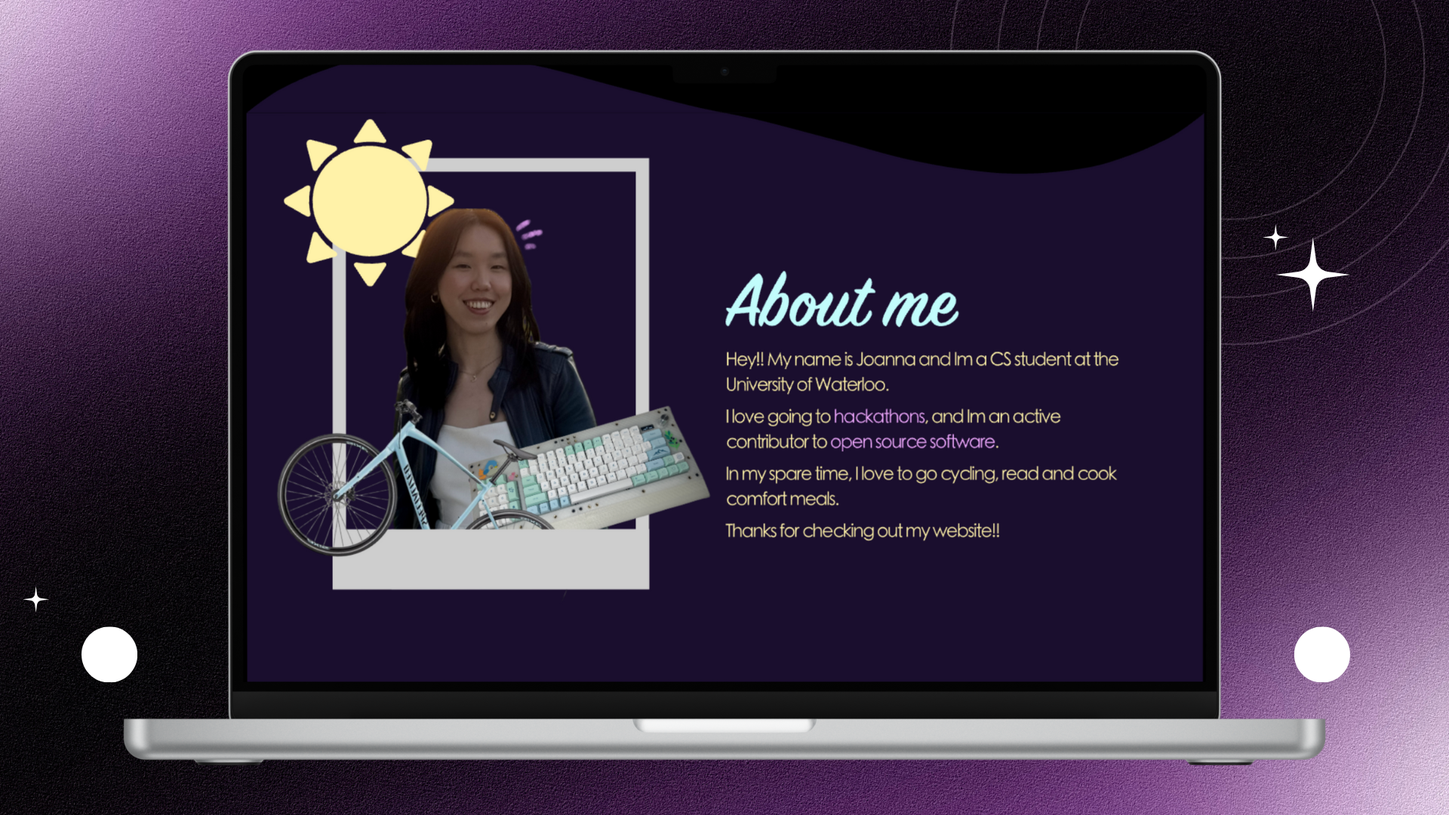
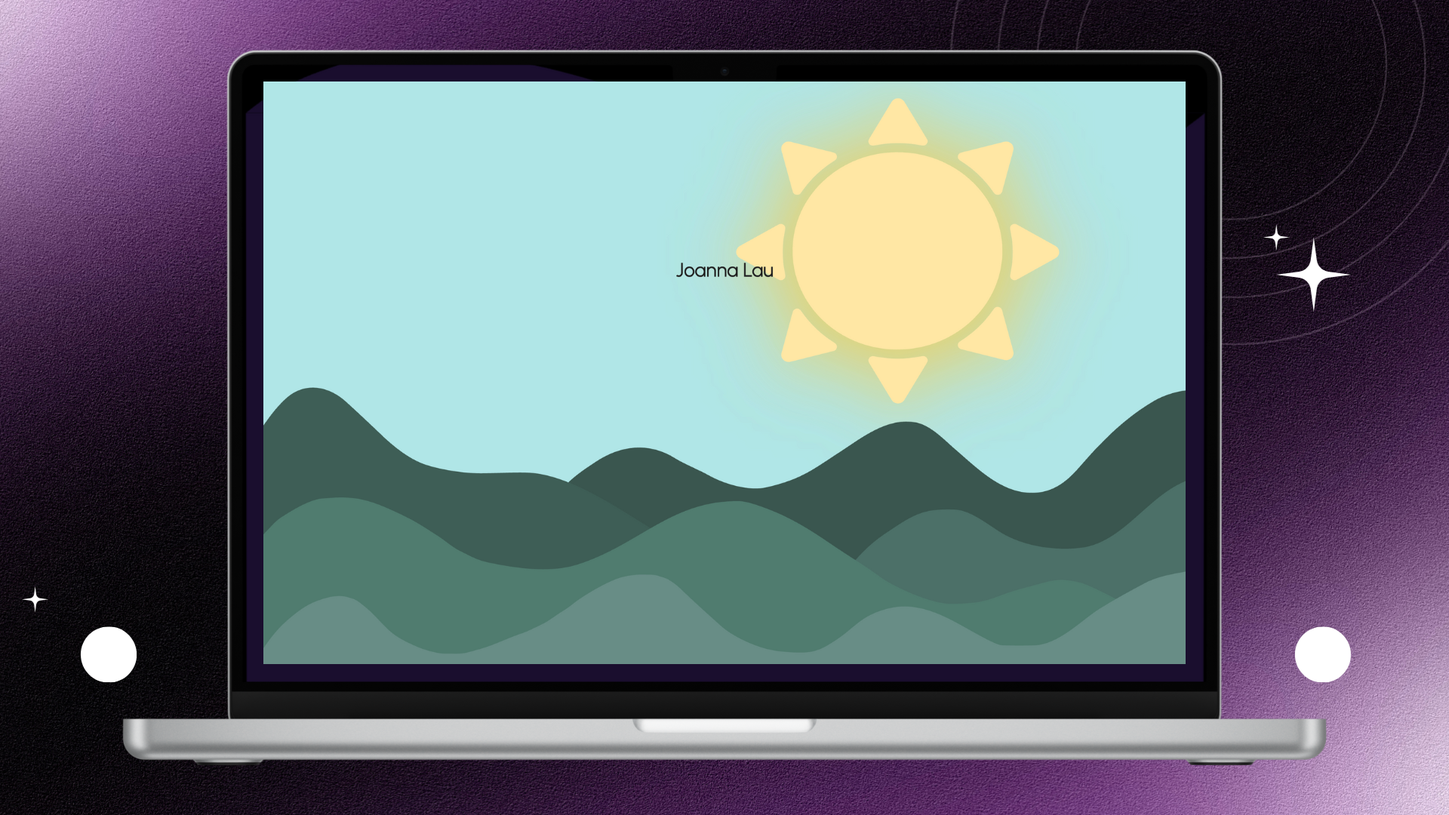
change color palette

diff --git a/src/components/AboutMe.tsx b/src/components/AboutMe.tsx
@@ -13,7 +13,7 @@ import Image from "next/image";
 
 gsap.registerPlugin(useGSAP, ScrollTrigger, MotionPathPlugin, SplitText);
 
-function AboutMe({ visible, setVisible }: { visible: boolean; setVisible: React.Dispatch<React.SetStateAction<boolean>> }) {
+function AboutMe({ setVisible }: { setVisible: React.Dispatch<React.SetStateAction<boolean>> }) {
   const containerRef = React.useRef<HTMLDivElement>(null);
   const sunScale = 0.5; // final size of sun svg
   const sunMargin = 1.1; // margin between sun edge and viewport edge
@@ -82,19 +82,29 @@ function AboutMe({ visible, setVisible }: { visible: boolean; setVisible: React.
     );
 
     // animation for background color change
-    gsap.to("#hero", {
-      backgroundColor: "var(--blue)",
-      ease: "power1.out",
+    const bgTimeline = gsap.timeline({
       scrollTrigger: {
         trigger: "#hero+aboutme",
-        start: "top top",
+        start: "2% top",
         end: `${screenHeightAfterSunTravel}% bottom`,
         scrub: true,
       },
-      onUpdate: function () {
-        const currentColor = getComputedStyle(this.targets()[0]).backgroundColor;
+    });
+    
+    bgTimeline
+      .to("#hero", 
+        { backgroundColor: "#776e99", ease: "none", duration: 0.4 }
+      )
+      .to("#hero", 
+        { backgroundColor: "var(--blue)", duration: 0.6, ease: "power2.out" }
+      );
+    
+    bgTimeline.eventCallback("onUpdate", function () {
+      const heroElement = document.getElementById("hero");
+      if (heroElement) {
+        const currentColor = getComputedStyle(heroElement).backgroundColor;
         setNameColor(getContrastColor(currentColor));
-      },
+      }
     });
 
 
@@ -215,6 +225,21 @@ function AboutMe({ visible, setVisible }: { visible: boolean; setVisible: React.
       },
     );
 
+    // animation for experience title to change color
+    gsap.to(
+      "#experience-title",
+      {
+        color: "var(--background-exp)",
+        ease: "power1.in",
+        scrollTrigger: {
+          trigger: "#hero+aboutme",
+          start: `86% bottom`,
+          end: `99% bottom`,
+          scrub: true,
+        },
+      },
+    );
+
     // animation for experience title x translation to cover screen
     gsap.to(
       "#experience-title",
@@ -301,15 +326,15 @@ function AboutMe({ visible, setVisible }: { visible: boolean; setVisible: React.
             </defs>
             {/* svg of the sun itself */}
             <g id="sun-svg" transform="translate(420, 90)" filter="url(#sun-shadow)" style={{ opacity: 0 }}>
-                <path className="sun-svg-path" d="M271.665788,454.907737 C264.620691,454.209549 257.820289,453.032823 251.079053,451.542549 C240.275853,449.154353 229.813117,445.810175 219.692571,441.534194 C206.162454,435.817667 193.583999,428.621389 181.975547,419.930963 C175.704028,415.235992 169.77055,410.189912 164.232024,404.739826 C153.547448,394.225897 144.450946,382.611301 136.966746,369.878589 C129.565192,357.286609 124.041681,343.998438 120.30112,330.057034 C118.481381,323.27468 117.175031,316.39872 116.293341,309.447659 C115.255883,301.268657 114.807182,293.065397 115.07676,284.837058 C115.337323,276.883319 116.151871,268.976432 117.58427,261.124359 C119.87854,248.547619 123.682177,236.394407 128.946571,224.64082 C133.056608,215.46448 138.030543,206.721216 143.837972,198.395749 C149.92729,189.666198 156.809226,181.539428 164.512801,174.015282 C176.810666,162.003909 190.689212,151.944008 206.178572,143.837094 C220.654276,136.260716 235.95659,130.712123 252.099115,127.221108 C258.680901,125.797728 265.324121,124.713396 272.043166,124.02185 C277.915845,123.417406 283.796509,123.069487 289.704688,123.010633 C297.031436,122.937655 304.327945,123.23836 311.617841,123.974215 C325.795195,125.405274 339.559711,128.467781 352.941276,133.051862 C365.524161,137.362341 377.413099,143.001431 388.633795,149.879788 C400.290474,157.025389 410.926448,165.332056 420.488267,174.837516 C435.10774,189.370804 446.635687,205.822297 455.003397,224.230084 C460.653633,236.65991 464.568461,249.559687 466.874076,262.890152 C467.812468,268.315707 468.576708,273.773226 468.732227,279.276953 C468.890532,284.878942 469.092593,290.488227 468.953421,296.087223 C468.756892,303.991861 467.751825,311.837869 466.233202,319.617893 C464.219783,329.932851 461.211653,339.983382 457.163143,349.759607 C450.159536,366.671701 440.488782,382.09798 428.13591,396.040245 C414.772355,411.123201 399.08006,423.61999 381.045507,433.498449 C364.329386,442.654737 346.497372,449.072073 327.521265,452.665595 C320.059421,454.078637 312.553405,455.175743 304.947461,455.533073 C299.735579,455.777957 294.514755,456.030783 289.300003,456 C283.460932,455.959106 277.619283,455.670245 271.665788,454.907737 Z" fill="#FF6B6B" fillRule="nonzero"></path>
-                <path className="sun-svg-path" d="M22.1451893,284.696277 C23.7187415,282.393467 26.0762631,281.193065 28.3704732,279.921265 C46.9119879,269.642844 65.4546268,259.366229 83.997716,249.090359 C86.4863816,247.711244 88.9710545,246.325378 91.4724439,244.967223 C95.7881824,242.623964 100.488394,244.89237 102.065695,247.99743 C102.770892,249.38571 103.064615,250.812418 102.780318,252.356136 C101.868006,257.309803 100.884395,262.254756 100.132393,267.230776 C99.5564965,271.041546 99.2263787,274.889408 98.8994714,278.729362 C98.3258639,285.467125 98.3694784,292.22157 98.6161892,298.968852 C98.8451682,305.231098 99.4249901,311.474464 100.478782,317.664683 C101.188878,321.835962 102.030284,325.987379 102.830685,330.144605 C103.413189,333.170043 102.507154,335.708737 99.8878781,337.516797 C97.2203161,339.358142 94.3122165,339.478057 91.4345777,337.915361 C87.0692174,335.544821 82.743277,333.109124 78.3998484,330.702296 C66.7864708,324.267087 55.1715242,317.834428 43.5596175,311.396863 C37.9486557,308.286171 32.4084497,305.054485 26.7184151,302.079859 C19.7550176,298.439501 18.1580048,290.354397 22.1451893,284.696277 Z" fill="#FF6B6B" fillRule="nonzero"></path>
-                <path className="sun-svg-path" d="M434.10403,166.168505 C426.805246,158.669182 419.040105,151.82068 410.619153,145.686453 C406.465624,142.660855 402.149664,139.833743 397.827041,137.030472 C393.859142,134.45723 392.818827,130.055884 395.451863,126.361049 C396.564818,124.799272 398.178804,123.970334 400.004332,123.510886 C415.954656,119.496568 431.911478,115.506111 447.865833,111.50651 C455.789332,109.520174 463.718467,107.554294 471.631602,105.530653 C475.729972,104.482574 479.509074,104.932632 482.980467,107.368375 C486.70836,109.984109 489.033933,115.001044 487.543549,120.310169 C485.020582,129.297617 482.608796,138.313808 480.153698,147.318764 C476.350369,161.268749 472.513887,175.210548 468.764688,189.173928 C467.099821,195.374439 460.301534,196.201207 456.857535,193.641498 C456.032835,193.028573 455.292743,192.238418 454.717469,191.400996 C450.945606,185.910646 446.972071,180.561741 442.578619,175.514012 C439.846043,172.37448 436.987314,169.335991 434.10403,166.168505 Z" fill="#FF6B6B" fillRule="nonzero"></path>
-                <path className="sun-svg-path" d="M129.944686,190.519233 C129.536381,191.108664 129.210036,191.612477 128.839461,192.084613 C127.102284,194.297954 124.740308,195.266245 121.909301,194.937352 C119.022813,194.602061 116.848824,193.148622 115.77563,190.503995 C115.209762,189.109538 114.861843,187.63088 114.463944,186.178149 C108.516745,164.465054 102.600826,142.744094 96.6150013,121.040744 C95.5532436,117.191041 95.7476804,113.602733 98.1387524,110.255729 C101.095568,106.116793 106.168286,104.14956 111.267111,105.346722 C117.979477,106.922724 124.658286,108.62994 131.346018,110.300813 C143.199039,113.262166 155.047486,116.240183 166.898693,119.208121 C172.606174,120.637464 178.316921,122.055003 184.023649,123.487072 C187.279827,124.304185 189.347336,126.283624 189.882758,129.458405 C190.405982,132.560796 189.166622,135.039638 186.391529,136.766846 C178.697263,141.555722 171.392129,146.838164 164.476311,152.606443 C159.047555,157.134416 153.915503,161.960334 149.045475,167.033826 C142.802047,173.538108 137.074713,180.437806 131.893145,187.747329 C131.262585,188.636851 130.635168,189.528421 129.944686,190.519233 Z" fill="#FF6B6B" fillRule="nonzero"></path>
-                <path className="sun-svg-path" d="M283.627041,542.98726 C281.767403,540.124602 279.935677,537.378721 278.222777,534.565369 C271.361893,523.296789 264.537876,512.00729 257.700357,500.725455 C253.227204,493.344818 248.742121,485.970927 244.286687,478.580348 C242.20757,475.131608 242.676714,471.589966 245.486921,469.048415 C247.351253,467.362192 249.57624,466.735628 252.050418,467.230643 C258.403514,468.501938 264.794158,469.546585 271.240359,470.240501 C281.126957,471.30459 291.050028,471.600146 300.985815,471.215999 C307.861192,470.950187 314.714156,470.333483 321.514085,469.30285 C325.465929,468.703912 329.389054,467.926037 333.320842,467.206889 C335.950339,466.725887 338.380827,467.014216 340.448283,468.812306 C343.205434,471.21021 343.799359,474.98417 341.881557,478.203707 C339.940971,481.461531 337.949294,484.691009 335.983834,487.93502 C327.523977,501.898298 319.067676,515.863492 310.605256,529.825293 C308.297419,533.632988 306.038956,537.470586 303.640867,541.224823 C299.851104,547.157703 291.867855,548.775416 285.884759,544.878372 C285.097492,544.36563 284.431656,543.67906 283.627041,542.98726 Z" fill="#FF6B6B" fillRule="nonzero"></path>
-                <path className="sun-svg-path" d="M438.826872,407.796985 C444.681697,401.245489 450.00667,394.462114 454.826714,387.310782 C456.48239,384.854266 458.97886,383.695111 462.04889,384.068738 C465.374289,384.473433 467.650324,386.231006 468.531201,389.377644 C470.506057,396.432075 472.423528,403.501193 474.358961,410.565704 C478.756342,426.616847 483.162126,442.665863 487.540475,458.721731 C489.396771,465.529006 485.484752,471.910207 478.410508,473.656362 C476.473839,474.134372 474.501826,474.103502 472.567835,473.627185 C465.821916,471.965607 459.083042,470.278042 452.343303,468.593745 C434.896027,464.233417 417.450028,459.868483 400.002793,455.50788 C394.83844,454.217174 392.494228,449.137862 395.023983,444.736034 C395.668812,443.614009 396.630637,442.807534 397.725276,442.129854 C404.008861,438.240056 410.032216,434.011279 415.77981,429.42809 C423.347737,423.393231 430.443898,416.890008 436.951543,409.808093 C437.545248,409.161953 438.149005,408.524356 438.826872,407.796985 Z" fill="#FF6B6B" fillRule="nonzero"></path>
-                <path className="sun-svg-path" d="M485.673551,309.448791 C486.348904,302.793497 486.702589,296.266265 486.581477,289.731789 C486.400679,279.97946 485.601148,270.270028 483.762307,260.657619 C483.258598,258.024479 482.724901,255.396365 482.18176,252.770253 C481.566383,249.795253 482.512292,247.337843 485.039369,245.535527 C487.689628,243.645357 490.592095,243.527837 493.480023,245.03064 C496.202768,246.447512 498.852572,247.990464 501.534228,249.478268 C520.404443,259.947554 539.267492,270.428442 558.151086,280.876014 C561.723562,282.852548 564.136195,285.582554 564.798543,289.510257 C565.637215,294.483445 563.853959,298.508858 559.511733,301.364767 C557.057887,302.97865 554.390438,304.302583 551.806823,305.736987 C534.841639,315.155957 517.873473,324.570078 500.905141,333.983924 C498.466827,335.336677 496.046531,336.720842 493.575123,338.017171 C489.694316,340.052739 485.279895,338.836628 483.057048,335.199132 C481.995412,333.46182 482.011773,331.618649 482.421002,329.743615 C483.875052,323.081194 484.971564,316.367926 485.673551,309.448791 Z" fill="#FF6B6B" fillRule="nonzero"></path>
-                <path className="sun-svg-path" d="M337.091636,92.8710426 C338.742554,95.6090039 340.384873,98.215144 341.915368,100.881133 C343.516865,103.670761 343.35318,106.447597 341.368983,109.00676 C339.455145,111.475152 336.780142,112.344707 333.71756,111.723608 C327.202583,110.402333 320.640376,109.379015 314.027445,108.69215 C310.218476,108.296526 306.386873,108.053439 302.558661,107.894817 C298.277903,107.717465 293.987163,107.585933 289.704793,107.658055 C277.386025,107.865531 265.19014,109.203579 253.127554,111.651276 C252.143154,111.851039 251.111525,112.059163 250.1245,111.984446 C244.273727,111.541557 241.174766,105.745087 244.143673,100.782858 C248.09301,94.1819405 252.107106,87.6171136 256.094745,81.0375439 C264.070085,67.87827 272.045838,54.7192156 280.023182,41.5610592 C280.820685,40.2455964 281.580259,38.905445 282.442314,37.6302439 C287.513236,30.1290785 298.61232,30.1063683 303.576359,37.6634213 C306.293342,41.7996565 308.752263,46.0941725 311.318481,50.3224438 C318.475627,62.1148573 325.62928,73.9092567 332.781197,85.7046438 C334.205842,88.0542658 335.61666,90.4117008 337.091636,92.8710426 Z" fill="#FF6B6B" fillRule="nonzero"></path>
-                <path className="sun-svg-path" d="M118.165775,474.990964 C115.859358,475.563544 113.697528,476.143697 111.516362,476.646785 C105.685729,477.991627 99.9221136,475.416553 97.2762495,470.278553 C95.932953,467.669995 95.6543729,464.928645 96.4200827,462.110428 C99.0072091,452.588428 101.608086,443.069821 104.200767,433.549201 C107.841975,420.178198 111.481701,406.806879 115.118507,393.43481 C115.488521,392.074271 115.914959,390.749385 116.892304,389.64457 C120.207908,385.896334 126.189762,386.158566 129.043188,390.265109 C132.90466,395.822389 136.922546,401.266952 141.337198,406.433901 C150.584866,417.257477 160.863115,427.08525 172.464768,435.588216 C177.00861,438.918553 181.713064,442.056308 186.447467,445.136127 C190.326176,447.659259 190.706722,451.828314 189.128917,454.78449 C188.066453,456.775151 186.304464,457.924375 184.072264,458.481416 C176.527477,460.364369 168.986331,462.260692 161.443612,464.151177 C147.062986,467.7555 132.682246,471.359349 118.165775,474.990964 Z" fill="#FF6B6B" fillRule="nonzero"></path>
+                <path className="sun-svg-path" d="M271.665788,454.907737 C264.620691,454.209549 257.820289,453.032823 251.079053,451.542549 C240.275853,449.154353 229.813117,445.810175 219.692571,441.534194 C206.162454,435.817667 193.583999,428.621389 181.975547,419.930963 C175.704028,415.235992 169.77055,410.189912 164.232024,404.739826 C153.547448,394.225897 144.450946,382.611301 136.966746,369.878589 C129.565192,357.286609 124.041681,343.998438 120.30112,330.057034 C118.481381,323.27468 117.175031,316.39872 116.293341,309.447659 C115.255883,301.268657 114.807182,293.065397 115.07676,284.837058 C115.337323,276.883319 116.151871,268.976432 117.58427,261.124359 C119.87854,248.547619 123.682177,236.394407 128.946571,224.64082 C133.056608,215.46448 138.030543,206.721216 143.837972,198.395749 C149.92729,189.666198 156.809226,181.539428 164.512801,174.015282 C176.810666,162.003909 190.689212,151.944008 206.178572,143.837094 C220.654276,136.260716 235.95659,130.712123 252.099115,127.221108 C258.680901,125.797728 265.324121,124.713396 272.043166,124.02185 C277.915845,123.417406 283.796509,123.069487 289.704688,123.010633 C297.031436,122.937655 304.327945,123.23836 311.617841,123.974215 C325.795195,125.405274 339.559711,128.467781 352.941276,133.051862 C365.524161,137.362341 377.413099,143.001431 388.633795,149.879788 C400.290474,157.025389 410.926448,165.332056 420.488267,174.837516 C435.10774,189.370804 446.635687,205.822297 455.003397,224.230084 C460.653633,236.65991 464.568461,249.559687 466.874076,262.890152 C467.812468,268.315707 468.576708,273.773226 468.732227,279.276953 C468.890532,284.878942 469.092593,290.488227 468.953421,296.087223 C468.756892,303.991861 467.751825,311.837869 466.233202,319.617893 C464.219783,329.932851 461.211653,339.983382 457.163143,349.759607 C450.159536,366.671701 440.488782,382.09798 428.13591,396.040245 C414.772355,411.123201 399.08006,423.61999 381.045507,433.498449 C364.329386,442.654737 346.497372,449.072073 327.521265,452.665595 C320.059421,454.078637 312.553405,455.175743 304.947461,455.533073 C299.735579,455.777957 294.514755,456.030783 289.300003,456 C283.460932,455.959106 277.619283,455.670245 271.665788,454.907737 Z" fill="var(--sun-red)" fillRule="nonzero"></path>
+                <path className="sun-svg-path" d="M22.1451893,284.696277 C23.7187415,282.393467 26.0762631,281.193065 28.3704732,279.921265 C46.9119879,269.642844 65.4546268,259.366229 83.997716,249.090359 C86.4863816,247.711244 88.9710545,246.325378 91.4724439,244.967223 C95.7881824,242.623964 100.488394,244.89237 102.065695,247.99743 C102.770892,249.38571 103.064615,250.812418 102.780318,252.356136 C101.868006,257.309803 100.884395,262.254756 100.132393,267.230776 C99.5564965,271.041546 99.2263787,274.889408 98.8994714,278.729362 C98.3258639,285.467125 98.3694784,292.22157 98.6161892,298.968852 C98.8451682,305.231098 99.4249901,311.474464 100.478782,317.664683 C101.188878,321.835962 102.030284,325.987379 102.830685,330.144605 C103.413189,333.170043 102.507154,335.708737 99.8878781,337.516797 C97.2203161,339.358142 94.3122165,339.478057 91.4345777,337.915361 C87.0692174,335.544821 82.743277,333.109124 78.3998484,330.702296 C66.7864708,324.267087 55.1715242,317.834428 43.5596175,311.396863 C37.9486557,308.286171 32.4084497,305.054485 26.7184151,302.079859 C19.7550176,298.439501 18.1580048,290.354397 22.1451893,284.696277 Z" fill="var(--sun-red)" fillRule="nonzero"></path>
+                <path className="sun-svg-path" d="M434.10403,166.168505 C426.805246,158.669182 419.040105,151.82068 410.619153,145.686453 C406.465624,142.660855 402.149664,139.833743 397.827041,137.030472 C393.859142,134.45723 392.818827,130.055884 395.451863,126.361049 C396.564818,124.799272 398.178804,123.970334 400.004332,123.510886 C415.954656,119.496568 431.911478,115.506111 447.865833,111.50651 C455.789332,109.520174 463.718467,107.554294 471.631602,105.530653 C475.729972,104.482574 479.509074,104.932632 482.980467,107.368375 C486.70836,109.984109 489.033933,115.001044 487.543549,120.310169 C485.020582,129.297617 482.608796,138.313808 480.153698,147.318764 C476.350369,161.268749 472.513887,175.210548 468.764688,189.173928 C467.099821,195.374439 460.301534,196.201207 456.857535,193.641498 C456.032835,193.028573 455.292743,192.238418 454.717469,191.400996 C450.945606,185.910646 446.972071,180.561741 442.578619,175.514012 C439.846043,172.37448 436.987314,169.335991 434.10403,166.168505 Z" fill="var(--sun-red)" fillRule="nonzero"></path>
+                <path className="sun-svg-path" d="M129.944686,190.519233 C129.536381,191.108664 129.210036,191.612477 128.839461,192.084613 C127.102284,194.297954 124.740308,195.266245 121.909301,194.937352 C119.022813,194.602061 116.848824,193.148622 115.77563,190.503995 C115.209762,189.109538 114.861843,187.63088 114.463944,186.178149 C108.516745,164.465054 102.600826,142.744094 96.6150013,121.040744 C95.5532436,117.191041 95.7476804,113.602733 98.1387524,110.255729 C101.095568,106.116793 106.168286,104.14956 111.267111,105.346722 C117.979477,106.922724 124.658286,108.62994 131.346018,110.300813 C143.199039,113.262166 155.047486,116.240183 166.898693,119.208121 C172.606174,120.637464 178.316921,122.055003 184.023649,123.487072 C187.279827,124.304185 189.347336,126.283624 189.882758,129.458405 C190.405982,132.560796 189.166622,135.039638 186.391529,136.766846 C178.697263,141.555722 171.392129,146.838164 164.476311,152.606443 C159.047555,157.134416 153.915503,161.960334 149.045475,167.033826 C142.802047,173.538108 137.074713,180.437806 131.893145,187.747329 C131.262585,188.636851 130.635168,189.528421 129.944686,190.519233 Z" fill="var(--sun-red)" fillRule="nonzero"></path>
+                <path className="sun-svg-path" d="M283.627041,542.98726 C281.767403,540.124602 279.935677,537.378721 278.222777,534.565369 C271.361893,523.296789 264.537876,512.00729 257.700357,500.725455 C253.227204,493.344818 248.742121,485.970927 244.286687,478.580348 C242.20757,475.131608 242.676714,471.589966 245.486921,469.048415 C247.351253,467.362192 249.57624,466.735628 252.050418,467.230643 C258.403514,468.501938 264.794158,469.546585 271.240359,470.240501 C281.126957,471.30459 291.050028,471.600146 300.985815,471.215999 C307.861192,470.950187 314.714156,470.333483 321.514085,469.30285 C325.465929,468.703912 329.389054,467.926037 333.320842,467.206889 C335.950339,466.725887 338.380827,467.014216 340.448283,468.812306 C343.205434,471.21021 343.799359,474.98417 341.881557,478.203707 C339.940971,481.461531 337.949294,484.691009 335.983834,487.93502 C327.523977,501.898298 319.067676,515.863492 310.605256,529.825293 C308.297419,533.632988 306.038956,537.470586 303.640867,541.224823 C299.851104,547.157703 291.867855,548.775416 285.884759,544.878372 C285.097492,544.36563 284.431656,543.67906 283.627041,542.98726 Z" fill="var(--sun-red)" fillRule="nonzero"></path>
+                <path className="sun-svg-path" d="M438.826872,407.796985 C444.681697,401.245489 450.00667,394.462114 454.826714,387.310782 C456.48239,384.854266 458.97886,383.695111 462.04889,384.068738 C465.374289,384.473433 467.650324,386.231006 468.531201,389.377644 C470.506057,396.432075 472.423528,403.501193 474.358961,410.565704 C478.756342,426.616847 483.162126,442.665863 487.540475,458.721731 C489.396771,465.529006 485.484752,471.910207 478.410508,473.656362 C476.473839,474.134372 474.501826,474.103502 472.567835,473.627185 C465.821916,471.965607 459.083042,470.278042 452.343303,468.593745 C434.896027,464.233417 417.450028,459.868483 400.002793,455.50788 C394.83844,454.217174 392.494228,449.137862 395.023983,444.736034 C395.668812,443.614009 396.630637,442.807534 397.725276,442.129854 C404.008861,438.240056 410.032216,434.011279 415.77981,429.42809 C423.347737,423.393231 430.443898,416.890008 436.951543,409.808093 C437.545248,409.161953 438.149005,408.524356 438.826872,407.796985 Z" fill="var(--sun-red)" fillRule="nonzero"></path>
+                <path className="sun-svg-path" d="M485.673551,309.448791 C486.348904,302.793497 486.702589,296.266265 486.581477,289.731789 C486.400679,279.97946 485.601148,270.270028 483.762307,260.657619 C483.258598,258.024479 482.724901,255.396365 482.18176,252.770253 C481.566383,249.795253 482.512292,247.337843 485.039369,245.535527 C487.689628,243.645357 490.592095,243.527837 493.480023,245.03064 C496.202768,246.447512 498.852572,247.990464 501.534228,249.478268 C520.404443,259.947554 539.267492,270.428442 558.151086,280.876014 C561.723562,282.852548 564.136195,285.582554 564.798543,289.510257 C565.637215,294.483445 563.853959,298.508858 559.511733,301.364767 C557.057887,302.97865 554.390438,304.302583 551.806823,305.736987 C534.841639,315.155957 517.873473,324.570078 500.905141,333.983924 C498.466827,335.336677 496.046531,336.720842 493.575123,338.017171 C489.694316,340.052739 485.279895,338.836628 483.057048,335.199132 C481.995412,333.46182 482.011773,331.618649 482.421002,329.743615 C483.875052,323.081194 484.971564,316.367926 485.673551,309.448791 Z" fill="var(--sun-red)" fillRule="nonzero"></path>
+                <path className="sun-svg-path" d="M337.091636,92.8710426 C338.742554,95.6090039 340.384873,98.215144 341.915368,100.881133 C343.516865,103.670761 343.35318,106.447597 341.368983,109.00676 C339.455145,111.475152 336.780142,112.344707 333.71756,111.723608 C327.202583,110.402333 320.640376,109.379015 314.027445,108.69215 C310.218476,108.296526 306.386873,108.053439 302.558661,107.894817 C298.277903,107.717465 293.987163,107.585933 289.704793,107.658055 C277.386025,107.865531 265.19014,109.203579 253.127554,111.651276 C252.143154,111.851039 251.111525,112.059163 250.1245,111.984446 C244.273727,111.541557 241.174766,105.745087 244.143673,100.782858 C248.09301,94.1819405 252.107106,87.6171136 256.094745,81.0375439 C264.070085,67.87827 272.045838,54.7192156 280.023182,41.5610592 C280.820685,40.2455964 281.580259,38.905445 282.442314,37.6302439 C287.513236,30.1290785 298.61232,30.1063683 303.576359,37.6634213 C306.293342,41.7996565 308.752263,46.0941725 311.318481,50.3224438 C318.475627,62.1148573 325.62928,73.9092567 332.781197,85.7046438 C334.205842,88.0542658 335.61666,90.4117008 337.091636,92.8710426 Z" fill="var(--sun-red)" fillRule="nonzero"></path>
+                <path className="sun-svg-path" d="M118.165775,474.990964 C115.859358,475.563544 113.697528,476.143697 111.516362,476.646785 C105.685729,477.991627 99.9221136,475.416553 97.2762495,470.278553 C95.932953,467.669995 95.6543729,464.928645 96.4200827,462.110428 C99.0072091,452.588428 101.608086,443.069821 104.200767,433.549201 C107.841975,420.178198 111.481701,406.806879 115.118507,393.43481 C115.488521,392.074271 115.914959,390.749385 116.892304,389.64457 C120.207908,385.896334 126.189762,386.158566 129.043188,390.265109 C132.90466,395.822389 136.922546,401.266952 141.337198,406.433901 C150.584866,417.257477 160.863115,427.08525 172.464768,435.588216 C177.00861,438.918553 181.713064,442.056308 186.447467,445.136127 C190.326176,447.659259 190.706722,451.828314 189.128917,454.78449 C188.066453,456.775151 186.304464,457.924375 184.072264,458.481416 C176.527477,460.364369 168.986331,462.260692 161.443612,464.151177 C147.062986,467.7555 132.682246,471.359349 118.165775,474.990964 Z" fill="var(--sun-red)" fillRule="nonzero"></path>
             </g>
             {/* svg of the travel path of the sun */}
             <g id="hero" stroke="none" fill="none" xmlnsXlink="#path-1" strokeWidth="1">
@@ -343,12 +368,12 @@ function AboutMe({ visible, setVisible }: { visible: boolean; setVisible: React.
               <div className="flex justify-center items-center gap-x-5 p-4 px-10">
                 <Image id="pfp" src="/photoframe.webp" alt="Profile Photo" width={500} height={500} className="" />
 
-                <div id="bio" className="z-50 flex flex-col gap-y-4 text-2xl max-w-[50%]">
+                <div id="bio" className="z-50 flex flex-col gap-y-4 text-2xl max-w-[50%] text-fg-aboutme-text" >
                   <p>
-                    Hey!! My name is Joanna and I&apos;m a <span className="text-fg-aboutme-purple">CS</span> student at the <span className="text-fg-aboutme-purple">University of Waterloo</span>.
+                    Hey!! My name is Joanna and I&apos;m a <span className="text-fg-aboutme-highlight">CS</span> student at the <span className="text-fg-aboutme-highlight">University of Waterloo</span>.
                   </p>
                   <p>
-                    I love going to <span className="text-fg-aboutme-purple">hackathons</span>, and I&apos;m an active contributor to <span className="text-fg-aboutme-purple">open source software</span>.
+                    I love going to <span className="text-fg-aboutme-highlight">hackathons</span>, and I&apos;m an active contributor to <span className="text-fg-aboutme-highlight">open source software</span>.
                   </p>
                   <p>
                     In my spare time, I love to go cycling, read and cook comfort meals.
@@ -381,7 +406,7 @@ function AboutMe({ visible, setVisible }: { visible: boolean; setVisible: React.
             </svg>
           </div>
           <div>
-            <p id="experience-title" className="fixed top-1/2 left-1/2 -translate-x-1/2 -translate-y-1/2 text-8xl font-bold text-bg-exp font-title-impact pointer-events-none z-22" style={{opacity: 0, WebkitTextStroke: '2px var(--blue)'}}>
+            <p id="experience-title" className="fixed top-1/2 left-1/2 -translate-x-1/2 -translate-y-1/2 text-8xl font-bold font-title-impact pointer-events-none z-22 text-fg-exp-orange" style={{opacity: 0}}>
               Experience
             </p>
           </div>

diff --git a/src/app/globals.css b/src/app/globals.css
@@ -2,15 +2,20 @@
 @import "tailwindcss";
 
 :root {
+  --blue: #A0E0FF;
+  --yellow: #FAE9B2;
+  --sun-red: #F27059;
   --background: #020315;
-  --background-aboutme: #1A0F2E;
-  --blue: #C2FDFC;
-  --yellow: #FFF1A8;
-  --background-exp: #0C1F26;
-  --background-projects: #241A26;
-  --foreground-aboutme-purple: #F0A8FF;
-  --foreground-exp-blue: #A8E4FF;
-  --foreground-projects-pink: #FFAEF0;
+  --background-aboutme: #2c6e49;
+  --background-exp: #d84e33;
+  --background-projects: #50366F;
+  --foreground-aboutme-text: #fefee3;
+  --foreground-aboutme-highlight: #ffc9b9;
+  --foreground-exp-orange: #FAE9B2;
+  --foreground-exp-blue: #A0E0FF;
+  --foreground-projects-text: #A0E0FF;
+  --foreground-projects-highlight: #FFAEF0;
+  --foreground-projects-title: #FAE9B2;
   --font-body: 'Urbanist', sans-serif;
   --font-exp-role: 'Lato', sans-serif;
   --font-title-bold: "Arial Black", "Arial Bold", Gadget, sans-serif;
@@ -24,9 +29,13 @@
   --color-blue: var(--blue);
   --color-bg-exp: var(--background-exp);
   --color-bg-proj: var(--background-projects);
-  --color-fg-aboutme-purple: var(--foreground-aboutme-purple);
+  --color-fg-aboutme-text: var(--foreground-aboutme-text);
+  --color-fg-aboutme-highlight: var(--foreground-aboutme-highlight);
+  --color-fg-exp-orange: var(--foreground-exp-orange);
   --color-fg-exp-blue: var(--foreground-exp-blue);
-  --color-fg-proj-pink: var(--foreground-projects-pink);
+  --color-fg-proj-text: var(--foreground-projects-text);
+  --color-fg-proj-highlight: var(--foreground-projects-highlight);
+  --color-fg-proj-title: var(--foreground-projects-title);
   --font-body: var(--font-body);
   --font-exp-role: var(--font-exp-role);
   --font-title-bold: var(--font-title-bold);

diff --git a/src/components/ProjectCard.tsx b/src/components/ProjectCard.tsx
@@ -8,8 +8,8 @@ function ProjectCard({project: {title, description, link, tech, image}} : {proje
       <a href={link} target="_blank" rel="noopener noreferrer">
         <Image src={image.src} alt={image.alt} width={800} height={400} className="object-contain rounded-md transition-all duration-300 group-hover:drop-shadow-[0_0_20px_rgba(199,199,199,0.5)]" />
         <div className='flex justify-between items-center mt-3 tracking-tight'>
-          <p className='text-2xl font-title-bold text-yellow transition-all duration-300 group-hover:underline tracking-tighter'>{title}</p>
-          <p className='text-blue ml-4'>
+          <p className='text-2xl font-title-bold text-fg-proj-title transition-all duration-300 group-hover:underline tracking-tighter'>{title}</p>
+          <p className='text-fg-proj-highlight ml-4'>
             {
               tech.map((techItem, index) => (
                 <React.Fragment key={index}>
@@ -20,7 +20,7 @@ function ProjectCard({project: {title, description, link, tech, image}} : {proje
             }
           </p>
         </div>
-        <p className='text-fg-proj-pink mt-1'>{description}</p>
+        <p className='text-fg-proj-text mt-1'>{description}</p>
       </a>
     </div>
   )

diff --git a/src/data/expData.ts b/src/data/expData.ts
@@ -15,19 +15,9 @@ export const expData: ExpDataInterface[] = [
     {
         startTime: "Sept 2025",
         endTime: "Present",
-        role: "Software Contributor",
-        company: "Daffodil",
-        description: "Contributed 1100+ lines of merged code to Daffodil, an open source ecommerce development framework with 360+ stars on GitHub.",
-        location: "Richmond, VA",
-        image: { src: "/daffodil.webp", alt: "Daffodil" },
-
-    },
-    {
-        startTime: "Sept 2025",
-        endTime: "Present",
-        role: "Software Developer",
+        role: "Software Developer & Project Manager",
         company: "UW Orbital",
-        description: "Member of ground station software subteam. Developing and designing the frontend of the Mission Control Centre software.",
+        description: "Managing frontend software quality and architecture on the ground station software subteam. Developing and designing the frontend of the Mission Control Centre software.",
         location: "Waterloo, ON",
         image: { src: "/orbital.webp", alt: "UW Orbital" },
     },

diff --git a/src/components/Experience.tsx b/src/components/Experience.tsx
@@ -6,9 +6,9 @@ import { expData } from '@/data/expData'
 function Experience() {
   
   return (
-    <div className='bg-bg-exp text-fg-exp-blue relative z-30 p-20 w-screen pt-0 text-fg-exp-blue'>
-      <p className='w-2/3 text-lg'>
-        I&apos;m a frontend developer passionate about crafting intuitive and immersive software experiences for all kinds of organizations. I focus on creating user interfaces that not only look great but also feel seamless and engaging, turning complex ideas into simple, meaningful digital interactions.
+    <div className='relative z-30 p-20 w-screen pt-0 text-fg-exp-blue' style={{ background: 'linear-gradient(to bottom, var(--background-exp), var(--background-projects))' }}>
+      <p className='w-2/3 text-lg font-medium'>
+        I&apos;m a software developer passionate about crafting intuitive and immersive software experiences. I focus on creating user interfaces that not only look great but also feel seamless and engaging, turning complex workflows into simple, meaningful digital interactions.
       </p>
       <ExpIcons />
       {

diff --git a/src/components/Projects.tsx b/src/components/Projects.tsx
@@ -4,10 +4,10 @@ import ProjectCard from './ProjectCard'
 
 function Projects() {
   return (
-    <div className='flex flex-col relative z-30 pl-7 bg-bg-proj w-screen py-15'>
-        <div className='flex justify-center w-full items-center'>
+    <div className='flex flex-col relative z-30 pl-7 w-screen py-15' style={{ background: 'linear-gradient(to bottom, var(--background-projects), var(--background))' }}>
+        <div className='flex justify-start w-full items-center'>
             <p className='text-8xl font-title-impact text-blue pr-7'>
-                Projects
+                ⋆ Projects
             </p>
         </div>
         <div className='mt-10 flex gap-y-10 flex-wrap justify-between'>

diff --git a/src/components/Footer.tsx b/src/components/Footer.tsx
@@ -3,10 +3,10 @@ import { FooterIcons } from '@/components/IconList'
 
 function Footer() {
   return (
-    <footer className='flex items-center justify-between px-7 pb-10 pt-4 bg-bg-proj relative z-30 text-yellow '>
+    <footer className='flex items-center justify-between px-7 pb-10 pt-4 bg-bg-default relative z-30 text-yellow '>
       <FooterIcons />
       <p className='font-semibold text-lg'>⋆｡˚made with ❤ by <span className='font-normal'>曦</span> © 2025˚｡⋆</p>
-      <p className=''>Last Updated: 30th Oct 2025</p>
+      <p className=''>Last Updated: 9th Nov 2025</p>
     </footer>
   )
 }

diff --git a/src/components/IconList.tsx b/src/components/IconList.tsx
@@ -16,7 +16,7 @@ function ExpIcons() {
       <Tooltip.Provider delayDuration={50}>
         <Tooltip.Root>
           <Tooltip.Trigger asChild data-state="instant-open">
-            <a href="https://drive.google.com/file/d/1GmUBOc2hIYmZ8aBxf5QfEf16hP2nxVK5/view?usp=drive_link" target="_blank" rel="noopener noreferrer">
+            <a href="https://drive.google.com/drive/folders/1DeSDYbqFTuED5JGDVe5SY5Pb87DIBocF?usp=sharing" target="_blank" rel="noopener noreferrer">
               <Resume className="cursor-pointer" height={iconSize} />
             </a>
           </Tooltip.Trigger>
